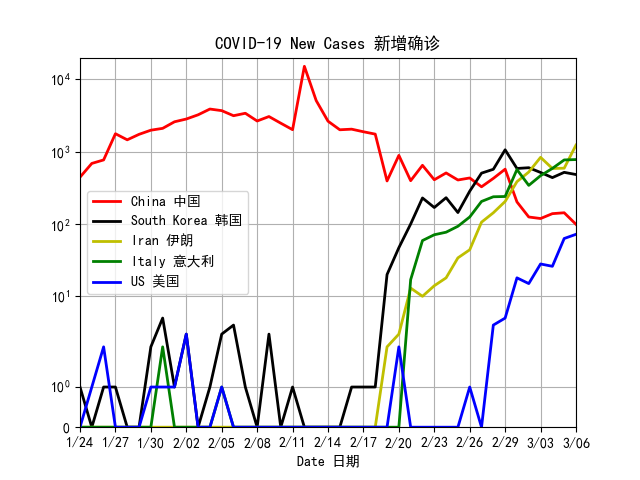
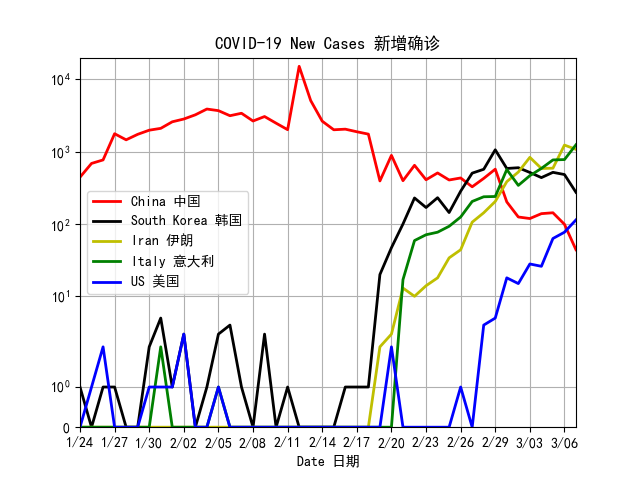
updated for Mar 7 data

Changed region(s): [[0.125, 0.125, 0.9375, 0.9375]]

diff --git a/README.md b/README.md
@@ -1,4 +1,6 @@
-# 2019nCoV 新型冠状病毒
+# Coronavirus disease 2019 (COVID-19) 新型冠状病毒
+
+![NewCases 各国新增](/Coutries.png )
 
 ![China CurrentCases 全国现有](/CurrentCases.png )
 
@@ -6,6 +8,6 @@
 
 ![HuBei NewCases 湖北省新增](/HuBeiNewCases.png)
 
-All data are from http://www.nhc.gov.cn 
+All data are from http://www.nhc.gov.cn and WiKi
 
-信息来自国家卫生健康委员会官方网站
+信息来自国家卫生健康委员会官方网站和WiKi
